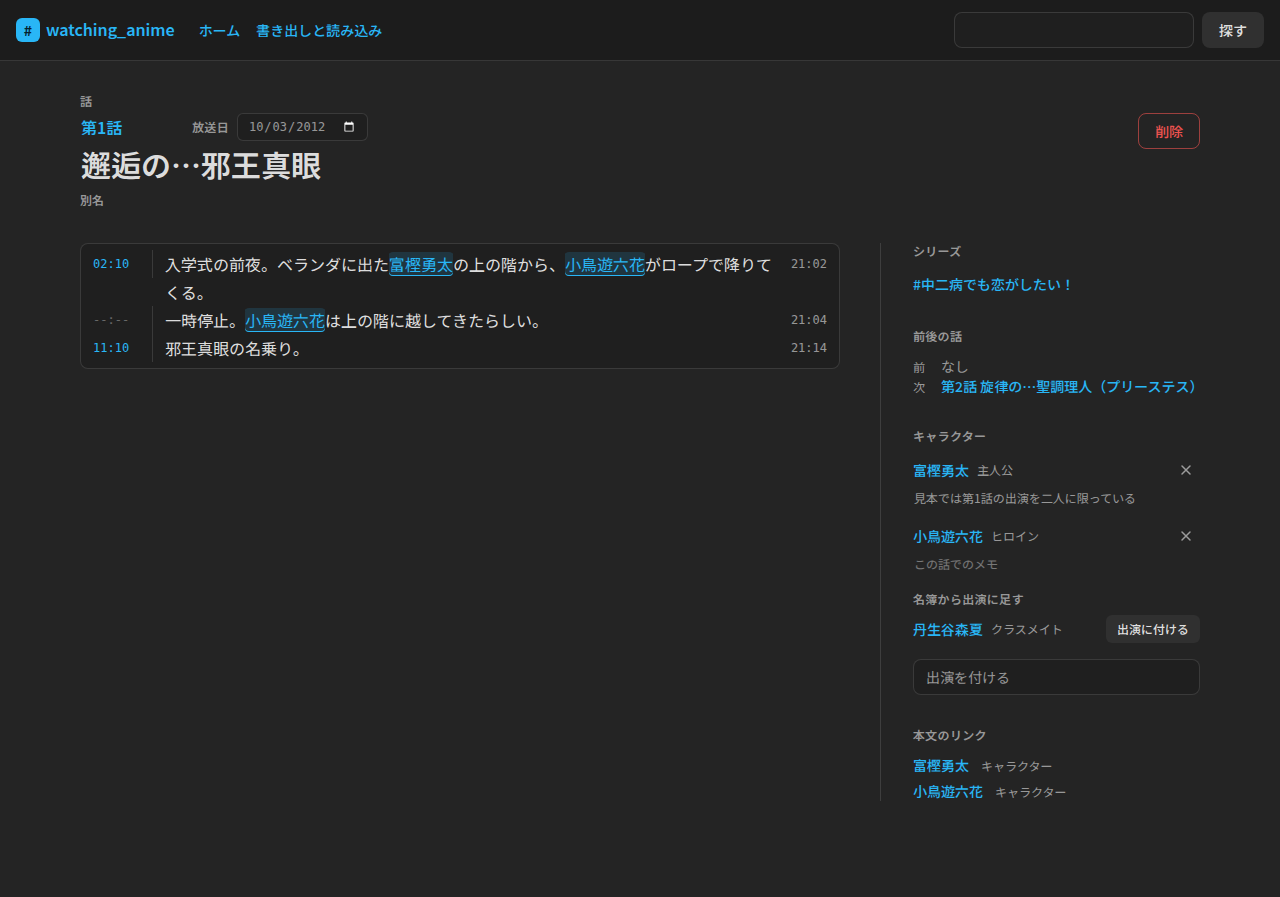
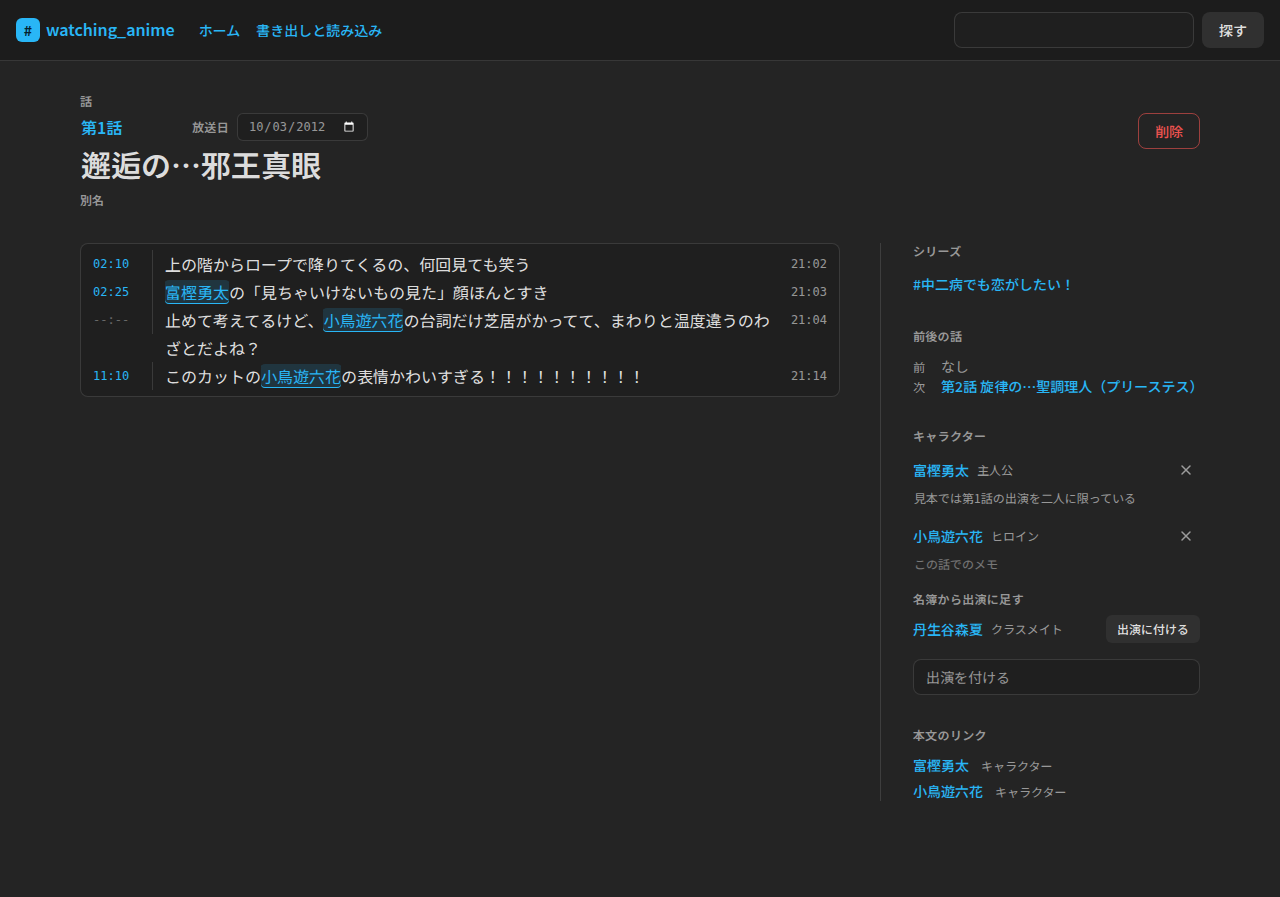
見本の本文をシーンの説明から実況のリアクションに直す
ここでの実況は、見ながらのリアクションのこと。開発ノートに書き、
第1話の見本とサジェストのスクショで打つ文字を直して撮り直した。

diff --git a/src/model/example.ts b/src/model/example.ts
@@ -21,7 +21,7 @@ function text(id: string, runs: TextRun[]): MemoBlock {
   return { id, at: null, writtenAt: null, runs };
 }
 
-/** 実況の行。話の中の位置と、現実で書いた時刻。位置の無い行は null */
+/** 実況の行。見ながらのリアクション。話の中の位置と、現実で書いた時刻。位置の無い行は null */
 function line(
   id: string,
   time: string | null,
@@ -76,19 +76,21 @@ export function buildExample(): Database {
     airedOn: "2012-10-03",
     blocks: [
       line("b-e1-time", "02:10", "2026-10-01T21:02:40+09:00", [
-        { text: "入学式の前夜。ベランダに出た" },
+        { text: "上の階からロープで降りてくるの、何回見ても笑う" },
+      ]),
+      line("b-e1-face", "02:25", "2026-10-01T21:03:05+09:00", [
         { text: "富樫勇太", pageId: yuuta.id },
-        { text: "の上の階から、" },
-        { text: "小鳥遊六花", pageId: rikka.id },
-        { text: "がロープで降りてくる。" },
+        { text: "の「見ちゃいけないもの見た」顔ほんとすき" },
       ]),
       line("b-e1-pause", null, "2026-10-01T21:04:15+09:00", [
-        { text: "一時停止。" },
+        { text: "止めて考えてるけど、" },
         { text: "小鳥遊六花", pageId: rikka.id },
-        { text: "は上の階に越してきたらしい。" },
+        { text: "の台詞だけ芝居がかってて、まわりと温度違うのわざとだよね？" },
       ]),
       line("b-e1-eye", "11:10", "2026-10-01T21:14:05+09:00", [
-        { text: "邪王真眼の名乗り。" },
+        { text: "このカットの" },
+        { text: "小鳥遊六花", pageId: rikka.id },
+        { text: "の表情かわいすぎる！！！！！！！！！！" },
       ]),
     ],
   });

diff --git a/src/model/storage.test.ts b/src/model/storage.test.ts
@@ -62,8 +62,9 @@ describe("PageStore", () => {
     const episode = new PageStore(storage)
       .getSnapshot()
       .episodes.find((item) => item.label === "第1話");
-    expect(episode?.body.blocks[0]).toMatchObject({ at: "02:10", writtenAt: null });
-    expect(episode?.body.blocks[1]).toMatchObject({ at: null, writtenAt: null });
+    const block = (id: string) => episode?.body.blocks.find((item) => item.id === id);
+    expect(block("b-e1-time")).toMatchObject({ at: "02:10", writtenAt: null });
+    expect(block("b-e1-pause")).toMatchObject({ at: null, writtenAt: null });
   });
 
   it("壊れた JSON のキーは空の配列として読む", () => {

diff --git a/src/model/records.test.ts b/src/model/records.test.ts
@@ -65,7 +65,7 @@ describe("deleteCharacter", () => {
     deleteCharacter(db, rikka.id);
     expect(tv1.characters.some((item) => item.characterId === rikka.id)).toBe(false);
     expect(first.appearances.some((item) => item.characterId === rikka.id)).toBe(false);
-    const runs = first.body.blocks[0].runs;
+    const runs = first.body.blocks.flatMap((block) => block.runs);
     expect(runs.some((run) => run.pageId === rikka.id)).toBe(true);
     const panel = buildEpisodeSidePanel(db, first.id);
     expect(panel.links.map((item) => item.title)).toEqual(["富樫勇太"]);

diff --git a/src/model/views.test.ts b/src/model/views.test.ts
@@ -37,9 +37,8 @@ describe("buildExample", () => {
       yuuta?.id,
       rikka?.id,
     ]);
-    const run = episode.body.blocks[0];
-    if (!run || run.at === null) throw new Error("本文がない");
-    expect(run.runs.find((item) => item.text === "小鳥遊六花")?.pageId).toBe(
+    const runs = episode.body.blocks.flatMap((block) => block.runs);
+    expect(runs.find((item) => item.text === "小鳥遊六花")?.pageId).toBe(
       rikka?.id,
     );
   });

diff --git a/src/model/types.ts b/src/model/types.ts
@@ -1,5 +1,6 @@
 /**
  * 1st で保存するもの。
+ * 実況は、見ながらのリアクション（「この表情かわいすぎる！」など）。
  * 実況に要るのは話と、その一覧を持つシリーズ。
  * キャラクターはサイドパネル用。スタッフと楽曲はまだ入れない。
  *

diff --git a/開発ノート.md b/開発ノート.md
@@ -10,7 +10,11 @@
 
 プロジェクト名は hash-watching-anime。パッケージ名も同じ。画面に見せる名前は `#watching_anime`（ヘッダーのロゴと、タブのタイトル）。ハッシュタグはハイフンで切れるので、アンダーバーにした。ロゴは `#` を空色の印にして、その後ろに `watching_anime` を続ける。保存キー、パッケージ名、公開 URL、書き出す JSON のファイル名など、見せる名前以外は `hash-watching-anime` のまま（2026-09-29）。
 
-アニメの実況メモを書くアプリ。1st の範囲（話、シリーズ、キャラクターのサイドパネル）を実装した。要件と型をレビューしていたページは、アプリに置き換えて外した（2026-09-28）。
+アニメの実況メモを書くアプリ。
+
+ここでの「実況」は、2ちゃんねるや Twitter の実況のこと。起きたことを説明するスポーツ実況ではなく、見ながらのリアクションを指す。「ここのセリフ、なんかここまでと雰囲気違くない？」「このカットの表情かわいすぎる！！！！！！！！！！」のような書き込み。機能の需要を考えるときも、見本やスクショの文言を書くときも、あらすじやシーンの説明にしない（2026-10-01）。
+
+1st の範囲（話、シリーズ、キャラクターのサイドパネル）を実装した。要件と型をレビューしていたページは、アプリに置き換えて外した（2026-09-28）。
 
 Sparkling Journey（https://github.com/Marco3jp/sparkling-journey）は作品とタグの台帳。ページの単位が違うので、同じリポジトリにはまとめていない。残している感覚は、リンクに note を持てること、開いた面で直すこと、JSON で持ち出せること、文字列で探せること。
 
@@ -181,6 +185,7 @@ Pages 自体はまだ無い。このワークフローが `main` で成功した
 
 ## 作業ログ
 
+- 2026-10-01: 「実況」はリアクションのことで、シーンの説明ではないと教わったので、このリポジトリについての節に書いた。見本の第1話の本文があらすじになっていたので、リアクションの行に書き直した。サジェストのスクショで打つ文字も「ここの@六」にした。スクショを撮り直した。
 - 2026-10-01: Issue #14（#8、#10 の整理）。本文の行に、話の中の時刻 `at`（null 可）と現実で書いた時刻 `writtenAt` を持たせた。`type` は外し、前の版は読むときに直す。本文の欄を1枚の入力欄の見た目にし、話の中の時刻の欄を空でも見えるようにした。話の面の日付の欄に「放送日」（劇場版・単発は「公開日」）のラベルを付けた。視聴日は、実況を書いた時刻で足りるので持たない。見本の第1話に、時刻の無い行と書いた時刻を足した。スクショの時計を固定し、撮り直した。IME での打鍵は確かめていない。
 
 - 2026-09-29: スクショを撮り直したら PR の本文に SHA 指定の URL で貼る、を `AGENTS.md` に書いた。#4 ではそうしていたが、書かれていなかったので #6 で貼り忘れた。
